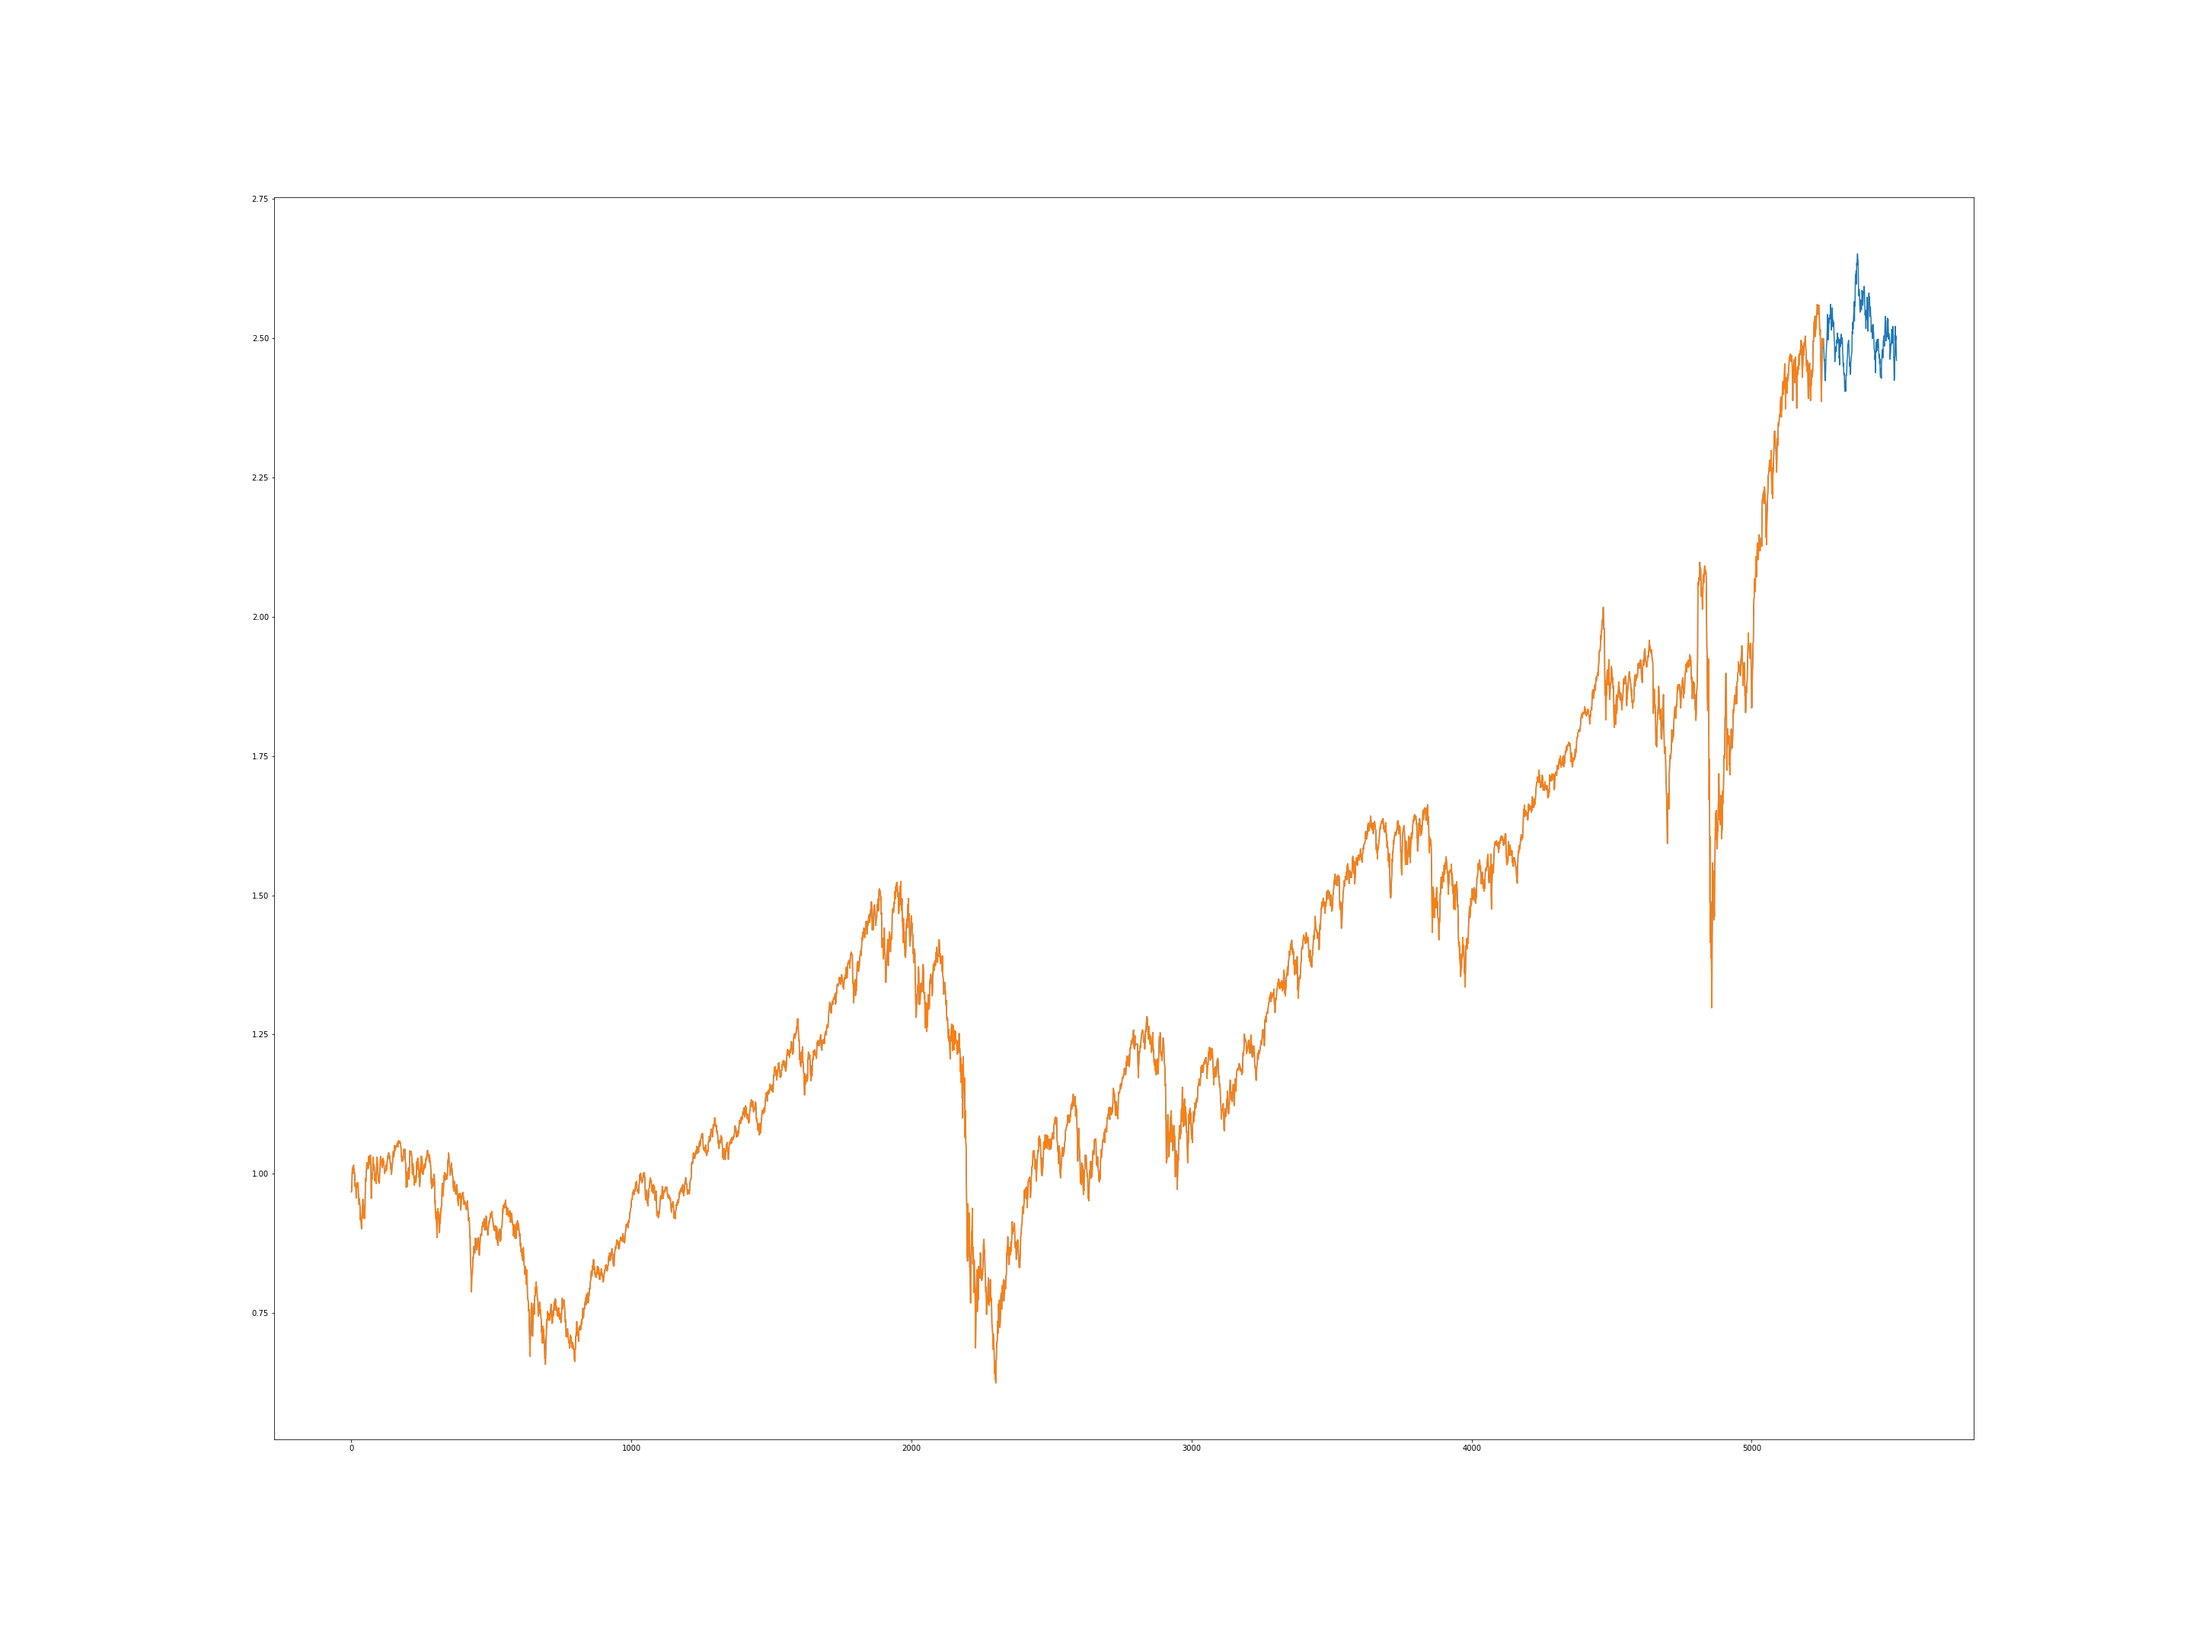
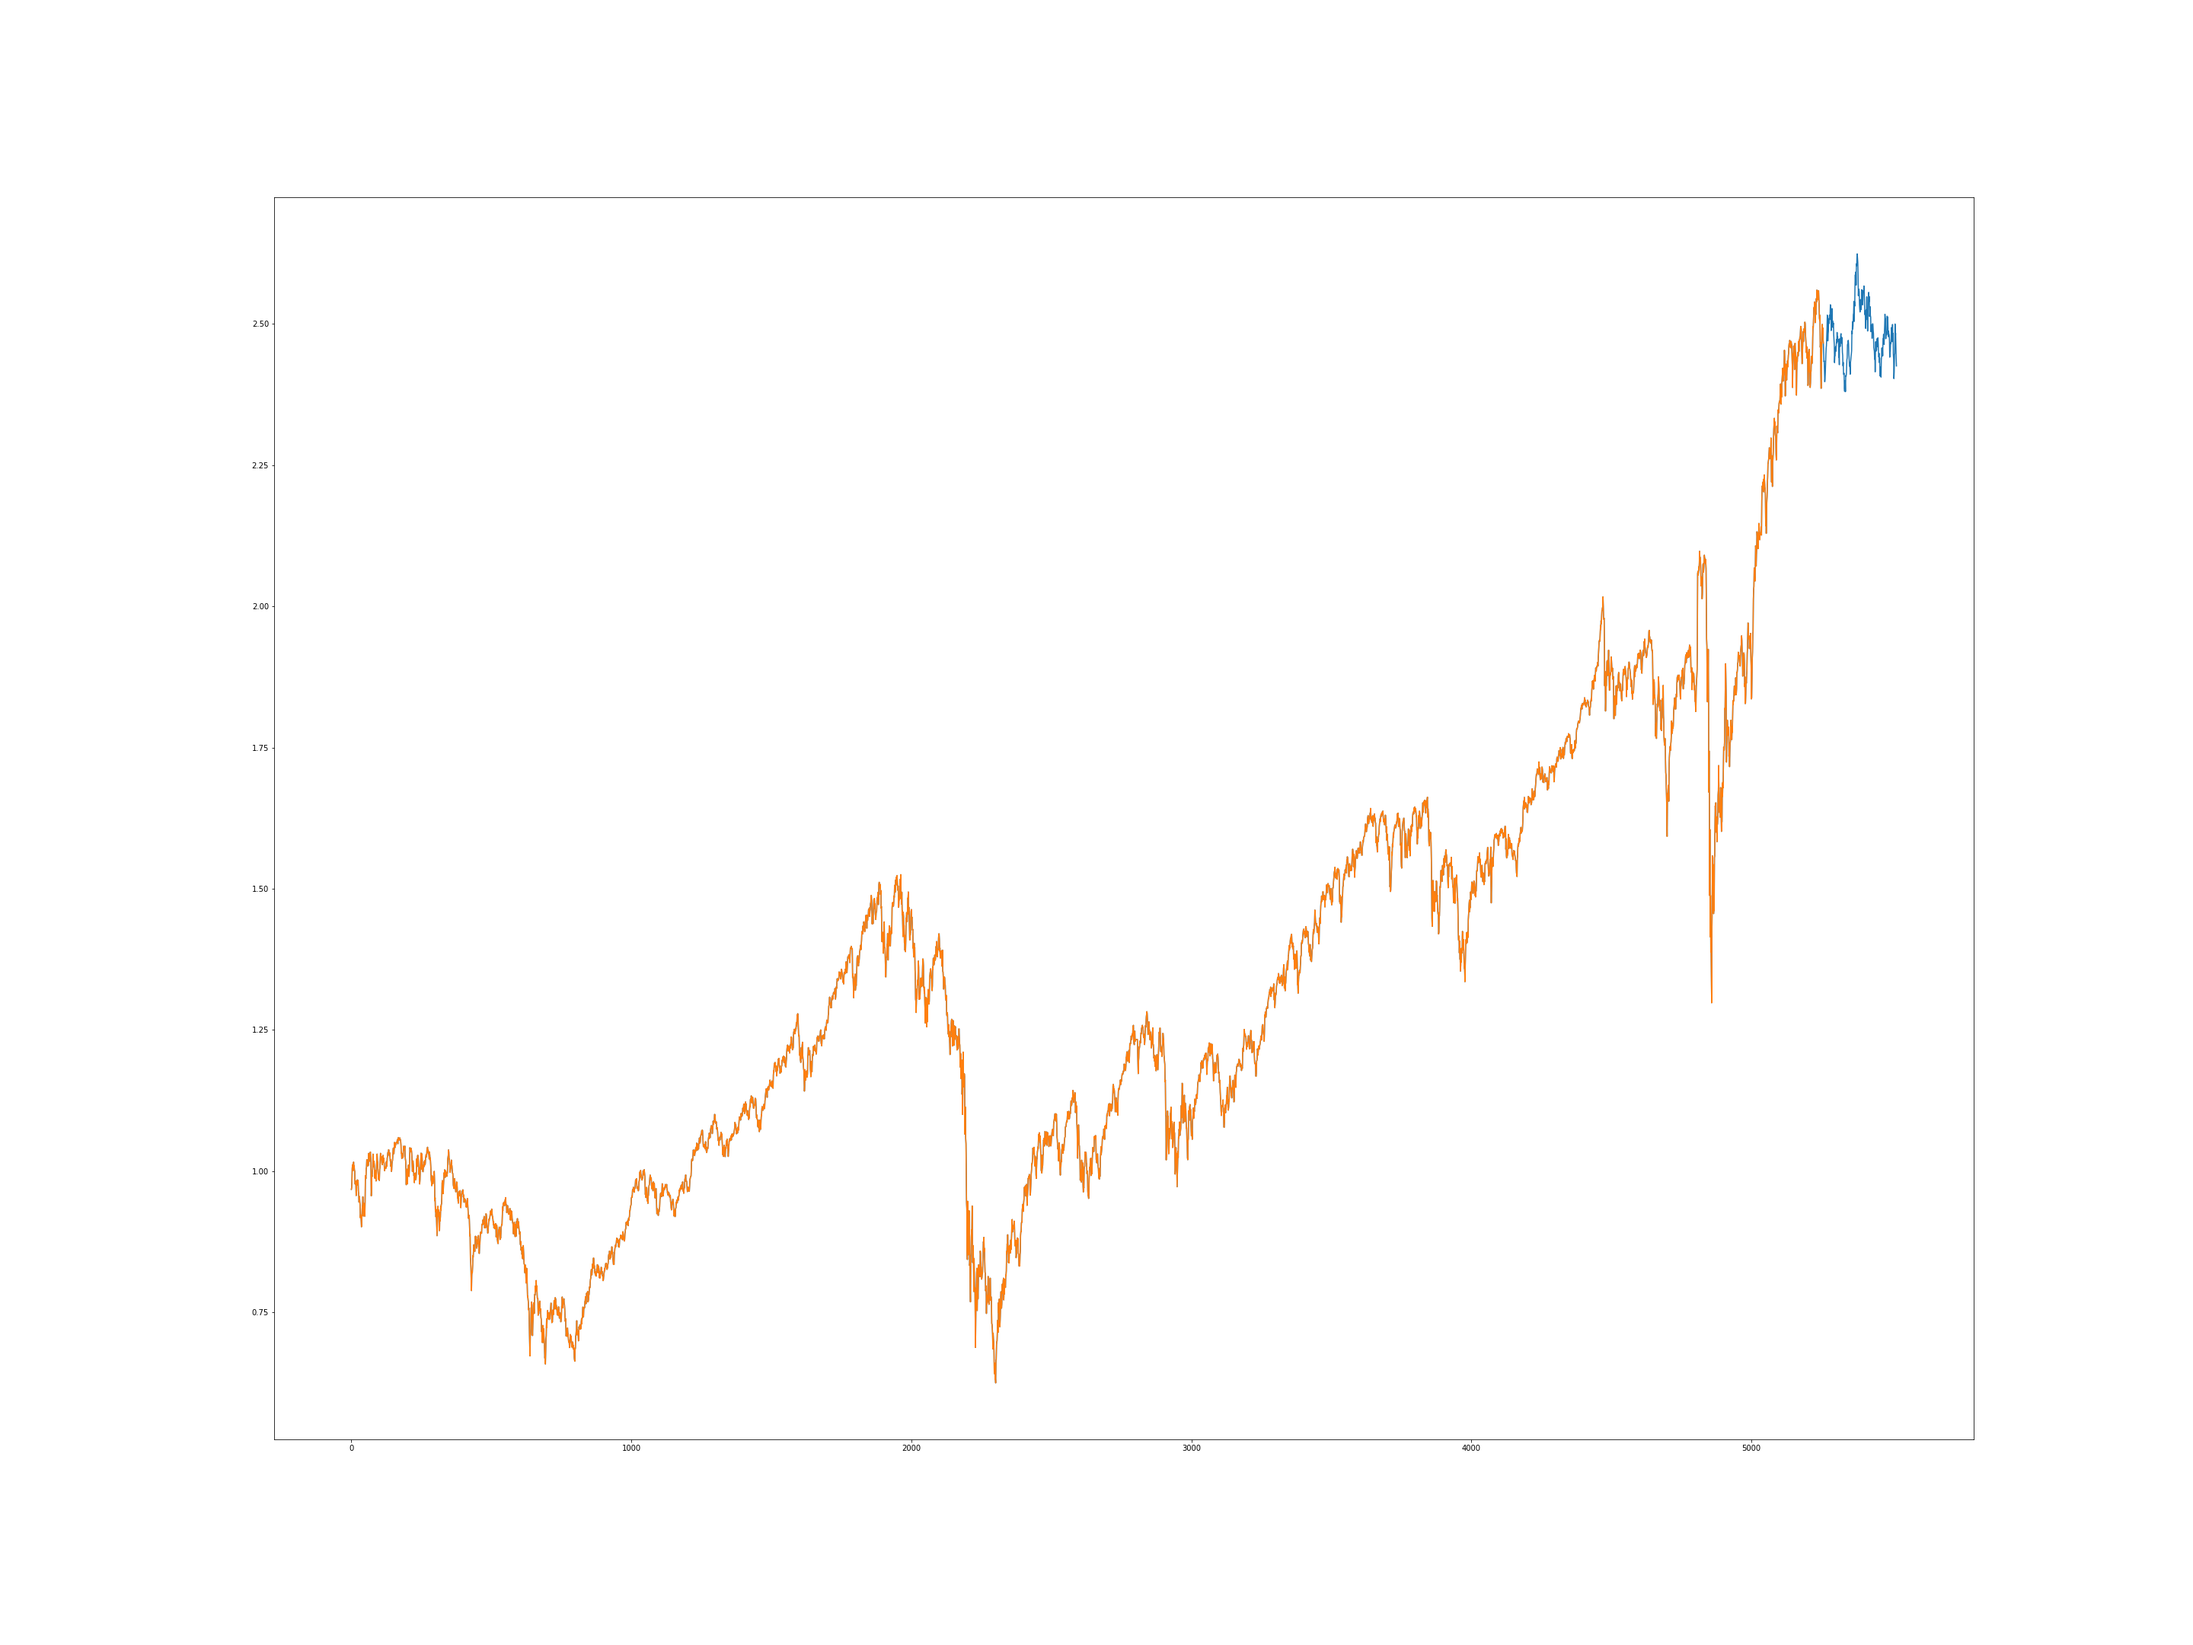
added smp 500

diff --git a/Send_Data.py b/Send_Data.py
@@ -49,9 +49,11 @@ Microsoft=yf.download('MSFT', start='2015-1-2', actions=False)
 Amazon=yf.download('AMZN', start='2017-10-1', actions=False)
 Zoom=yf.download('ZM', actions=False)
 Tesla=yf.download('TSLA', actions=False)
+SMP500=yf.download('^GSPC', start='2020-1-1')
 
-stock_list.extend((Qualcomm,Intel,NYSE,DowJones,JPMorgan,Ford,Google,Boeing,Meta,Netflix,Nasdaq,Costco,Uber,Microsoft,Amazon))
-stock_name_list.extend(('qualcomm','intel','nyse','dow','jpmorgan','ford','google','boeing','meta','netflix','nasdaq','costco','uber','microsoft','amazon'))
+
+stock_list.extend((Qualcomm,Intel,NYSE,DowJones,JPMorgan,Ford,Google,Boeing,Meta,Netflix,Nasdaq,Costco,Uber,Microsoft,Amazon,Tesla,Apple,SMP500))
+stock_name_list.extend(('qualcomm','intel','nyse','dow','jpmorgan','ford','google','boeing','meta','netflix','nasdaq','costco','uber','microsoft','amazon','tesla','apple','sp'))
 
 
 stocks = {}
@@ -148,21 +150,18 @@ for x in range(len(stock_list)):
 
 
 #will add more
-# train_send("tesla",Tesla, 580, 1500, -1)
-train_send("apple",Apple,-1,0,0)
 train_send("zoom",Zoom, 300, 0, -1)
 n_days = 365
 train_send("heinz",Heinz, -1, 0, -1)
 
 
 
-
 key='image_url'
 
 limit = '1000'
-# date = str(date.today())
-# api_url = f'https://api.polygon.io/v2/reference/news?published_utc={date}&limit={limit}&apiKey=BpYLj3XDxfQZfCGlB3OiySFQTzWPBIvK'
-api_url = f'https://api.polygon.io/v2/reference/news?limit={limit}&apiKey=BpYLj3XDxfQZfCGlB3OiySFQTzWPBIvK'
+date = str(date.today())
+api_url = f'https://api.polygon.io/v2/reference/news?published_utc={date}&limit={limit}&apiKey=BpYLj3XDxfQZfCGlB3OiySFQTzWPBIvK'
+# api_url = f'https://api.polygon.io/v2/reference/news?limit={limit}&apiKey=BpYLj3XDxfQZfCGlB3OiySFQTzWPBIvK'
 data = requests.get(api_url).json()
 amount = len(data['results'])
 

diff --git a/Stockscast_Model.py b/Stockscast_Model.py
@@ -8,7 +8,7 @@ import math
 from datetime import date
 
 #forecast length
-n_days = 365
+n_days = 261
 # set seed for Reproducibility
 random.seed(10)
 
@@ -30,11 +30,11 @@ random.seed(10)
 # data=yf.download('UBER')
 # data=yf.download('MSFT', start='2015-1-2')
 # data=yf.download('AMZN', start='2018-10-1')
-
 # data=yf.download('ZM') lags=300
-# data=yf.download('TSLA') lags=580, len(array)-1500
+# data=yf.download('TSLA')
 # data=yf.download('NVDA', start='2000-1-2')
 # data=yf.download('AMD', start='2000-1-2')
+data=yf.download('^GSPC', start='2020-1-1', actions=False)
 
 #data restructure
 data.reset_index(inplace=True,drop=False)
@@ -63,7 +63,7 @@ len(array)
 # plt.plot(array)
 final = (array + 1).cumprod()
 
-plt.figure(figsize=(200, 180))
+plt.figure(figsize=(40, 30))
 plt.plot(final[:len(final)])
 plt.plot(final[0:len(final)-n_days])
 
